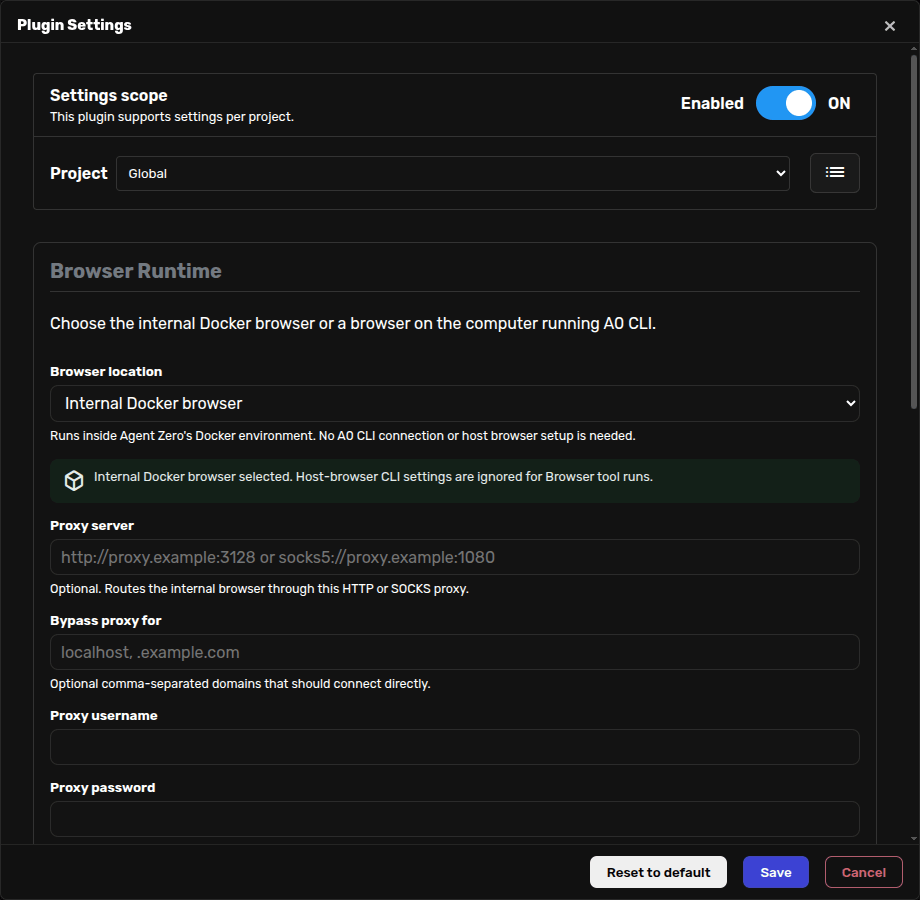
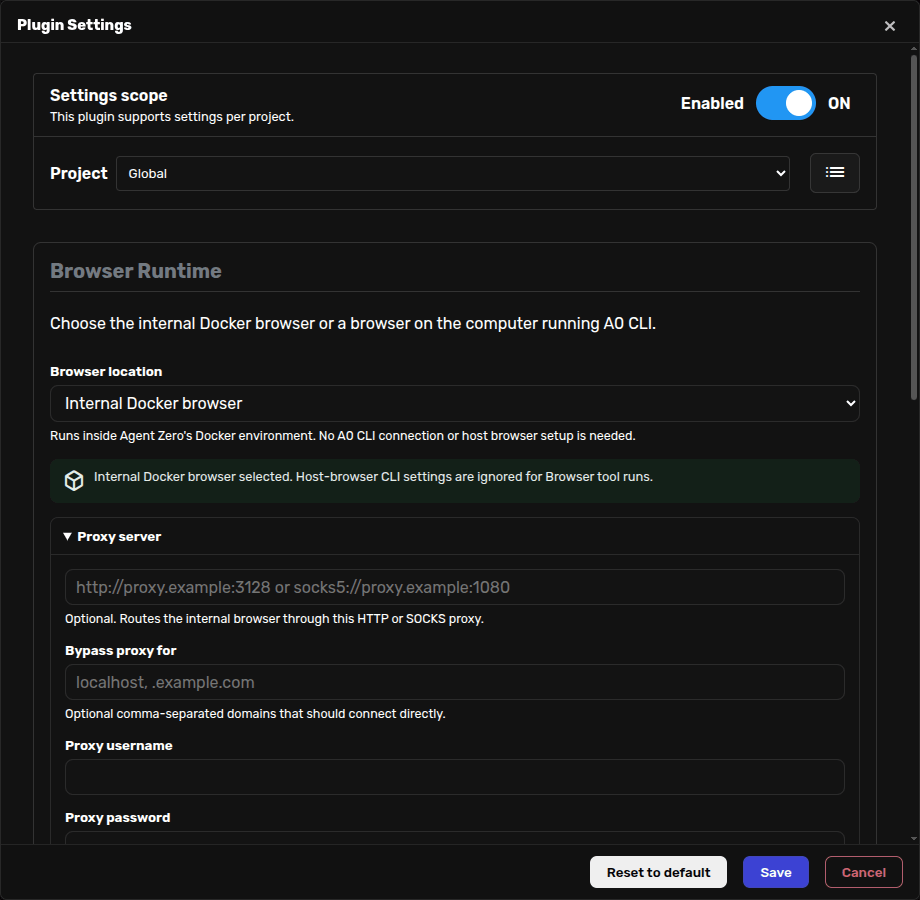
Group browser proxy settings in accordion
Place the internal Browser proxy fields in a native disclosure and keep its styling borderless. Refresh the guide screenshot and cover the config markup.

Changed region(s): [[0.0609, 0.56, 0.5478, 0.84], [0.0609, 0.8711, 0.1826, 0.9333]]

diff --git a/plugins/_browser/webui/config.html b/plugins/_browser/webui/config.html
@@ -49,58 +49,54 @@
             <span>Internal Docker browser selected. Host-browser CLI settings are ignored for Browser tool runs.</span>
           </div>
 
-          <label
-            class="browser-config-field"
+          <details
+            class="browser-config-proxy"
             x-show="$store.browserConfig.config.runtime_backend === 'container'"
           >
-            <span class="browser-config-field-label">Proxy server</span>
-            <input
-              type="text"
-              x-model="$store.browserConfig.config.proxy_server"
-              placeholder="http://proxy.example:3128 or socks5://proxy.example:1080"
-              autocomplete="off"
-            />
-            <span class="browser-config-field-help">Optional. Routes the internal browser through this HTTP or SOCKS proxy.</span>
-          </label>
+            <summary>Proxy server</summary>
+            <div class="browser-config-proxy-body">
+              <label class="browser-config-field">
+                <input
+                  type="text"
+                  x-model="$store.browserConfig.config.proxy_server"
+                  placeholder="http://proxy.example:3128 or socks5://proxy.example:1080"
+                  aria-label="Proxy server"
+                  autocomplete="off"
+                />
+                <span class="browser-config-field-help">Optional. Routes the internal browser through this HTTP or SOCKS proxy.</span>
+              </label>
 
-          <label
-            class="browser-config-field"
-            x-show="$store.browserConfig.config.runtime_backend === 'container'"
-          >
-            <span class="browser-config-field-label">Bypass proxy for</span>
-            <input
-              type="text"
-              x-model="$store.browserConfig.config.proxy_bypass"
-              placeholder="localhost, .example.com"
-              autocomplete="off"
-            />
-            <span class="browser-config-field-help">Optional comma-separated domains that should connect directly.</span>
-          </label>
+              <label class="browser-config-field">
+                <span class="browser-config-field-label">Bypass proxy for</span>
+                <input
+                  type="text"
+                  x-model="$store.browserConfig.config.proxy_bypass"
+                  placeholder="localhost, .example.com"
+                  autocomplete="off"
+                />
+                <span class="browser-config-field-help">Optional comma-separated domains that should connect directly.</span>
+              </label>
 
-          <label
-            class="browser-config-field"
-            x-show="$store.browserConfig.config.runtime_backend === 'container'"
-          >
-            <span class="browser-config-field-label">Proxy username</span>
-            <input
-              type="text"
-              x-model="$store.browserConfig.config.proxy_username"
-              autocomplete="off"
-            />
-          </label>
+              <label class="browser-config-field">
+                <span class="browser-config-field-label">Proxy username</span>
+                <input
+                  type="text"
+                  x-model="$store.browserConfig.config.proxy_username"
+                  autocomplete="off"
+                />
+              </label>
 
-          <label
-            class="browser-config-field"
-            x-show="$store.browserConfig.config.runtime_backend === 'container'"
-          >
-            <span class="browser-config-field-label">Proxy password</span>
-            <input
-              type="password"
-              x-model="$store.browserConfig.config.proxy_password"
-              autocomplete="off"
-            />
-            <span class="browser-config-field-help">Saving proxy changes restarts active internal Browser sessions.</span>
-          </label>
+              <label class="browser-config-field">
+                <span class="browser-config-field-label">Proxy password</span>
+                <input
+                  type="password"
+                  x-model="$store.browserConfig.config.proxy_password"
+                  autocomplete="off"
+                />
+                <span class="browser-config-field-help">Saving proxy changes restarts active internal Browser sessions.</span>
+              </label>
+            </div>
+          </details>
 
           <label
             class="browser-config-field"
@@ -374,6 +370,27 @@
       color: var(--color-text-secondary);
       font-size: 0.78rem;
       line-height: 1.35;
+    }
+
+    .browser-config-proxy {
+      overflow: hidden;
+      border-radius: 8px;
+    }
+
+    .browser-config-proxy summary {
+      padding: 10px 12px;
+      color: var(--color-text);
+      font-size: 0.84rem;
+      font-weight: 650;
+      cursor: pointer;
+    }
+
+    .browser-config-proxy-body {
+      display: flex;
+      flex-direction: column;
+      gap: 14px;
+      padding: 14px;
+      border-top: 1px solid color-mix(in srgb, var(--color-border) 74%, transparent);
     }
 
     .browser-config-field input[type="text"],

diff --git a/tests/test_browser_agent_regressions.py b/tests/test_browser_agent_regressions.py
@@ -1259,6 +1259,8 @@ def test_browser_extension_settings_stay_user_facing():
     assert 'x-model="$store.browserConfig.config.proxy_bypass"' in config_html
     assert 'x-model="$store.browserConfig.config.proxy_username"' in config_html
     assert 'x-model="$store.browserConfig.config.proxy_password"' in config_html
+    assert '<details\n            class="browser-config-proxy"' in config_html
+    assert "<summary>Proxy server</summary>" in config_html
     assert 'type="password"' in config_html
     assert "normalizeMaxOpenTabs()" in config_html
     assert "BROWSER_TAB_SCOPES" in config_store
